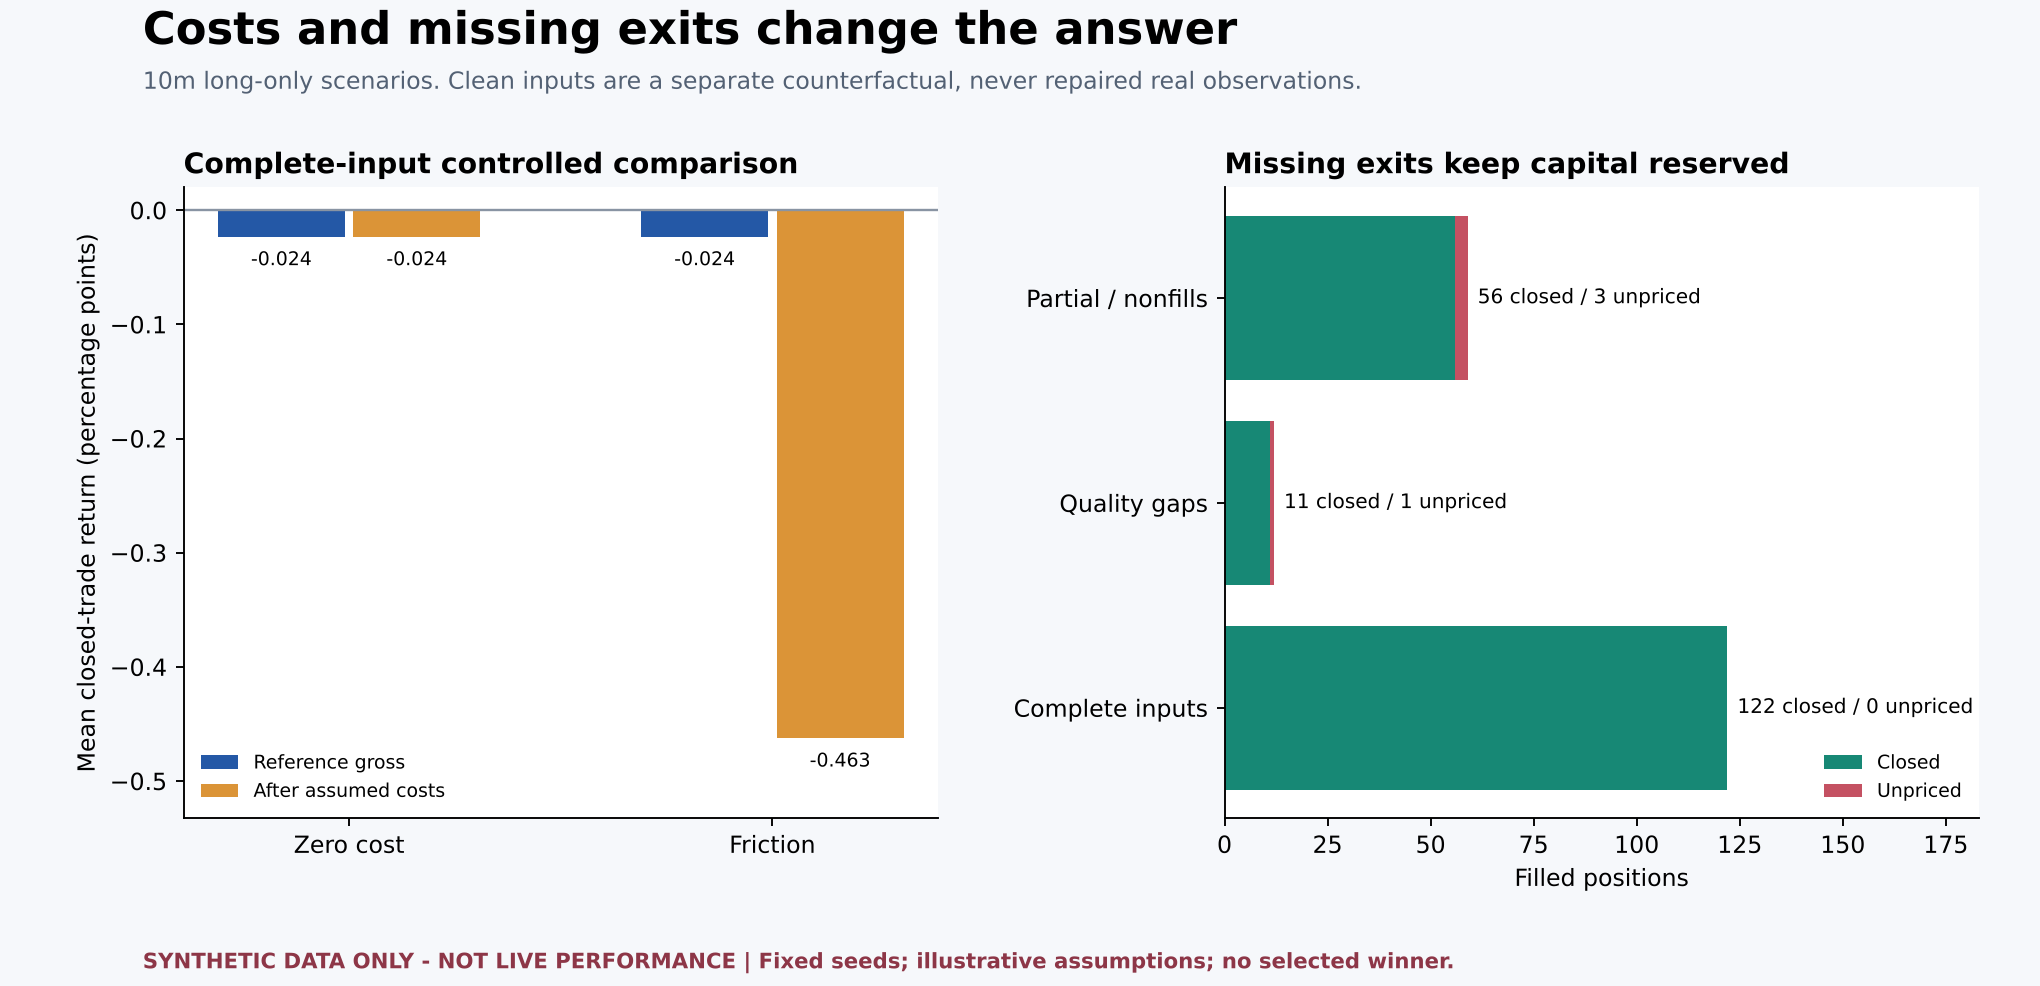
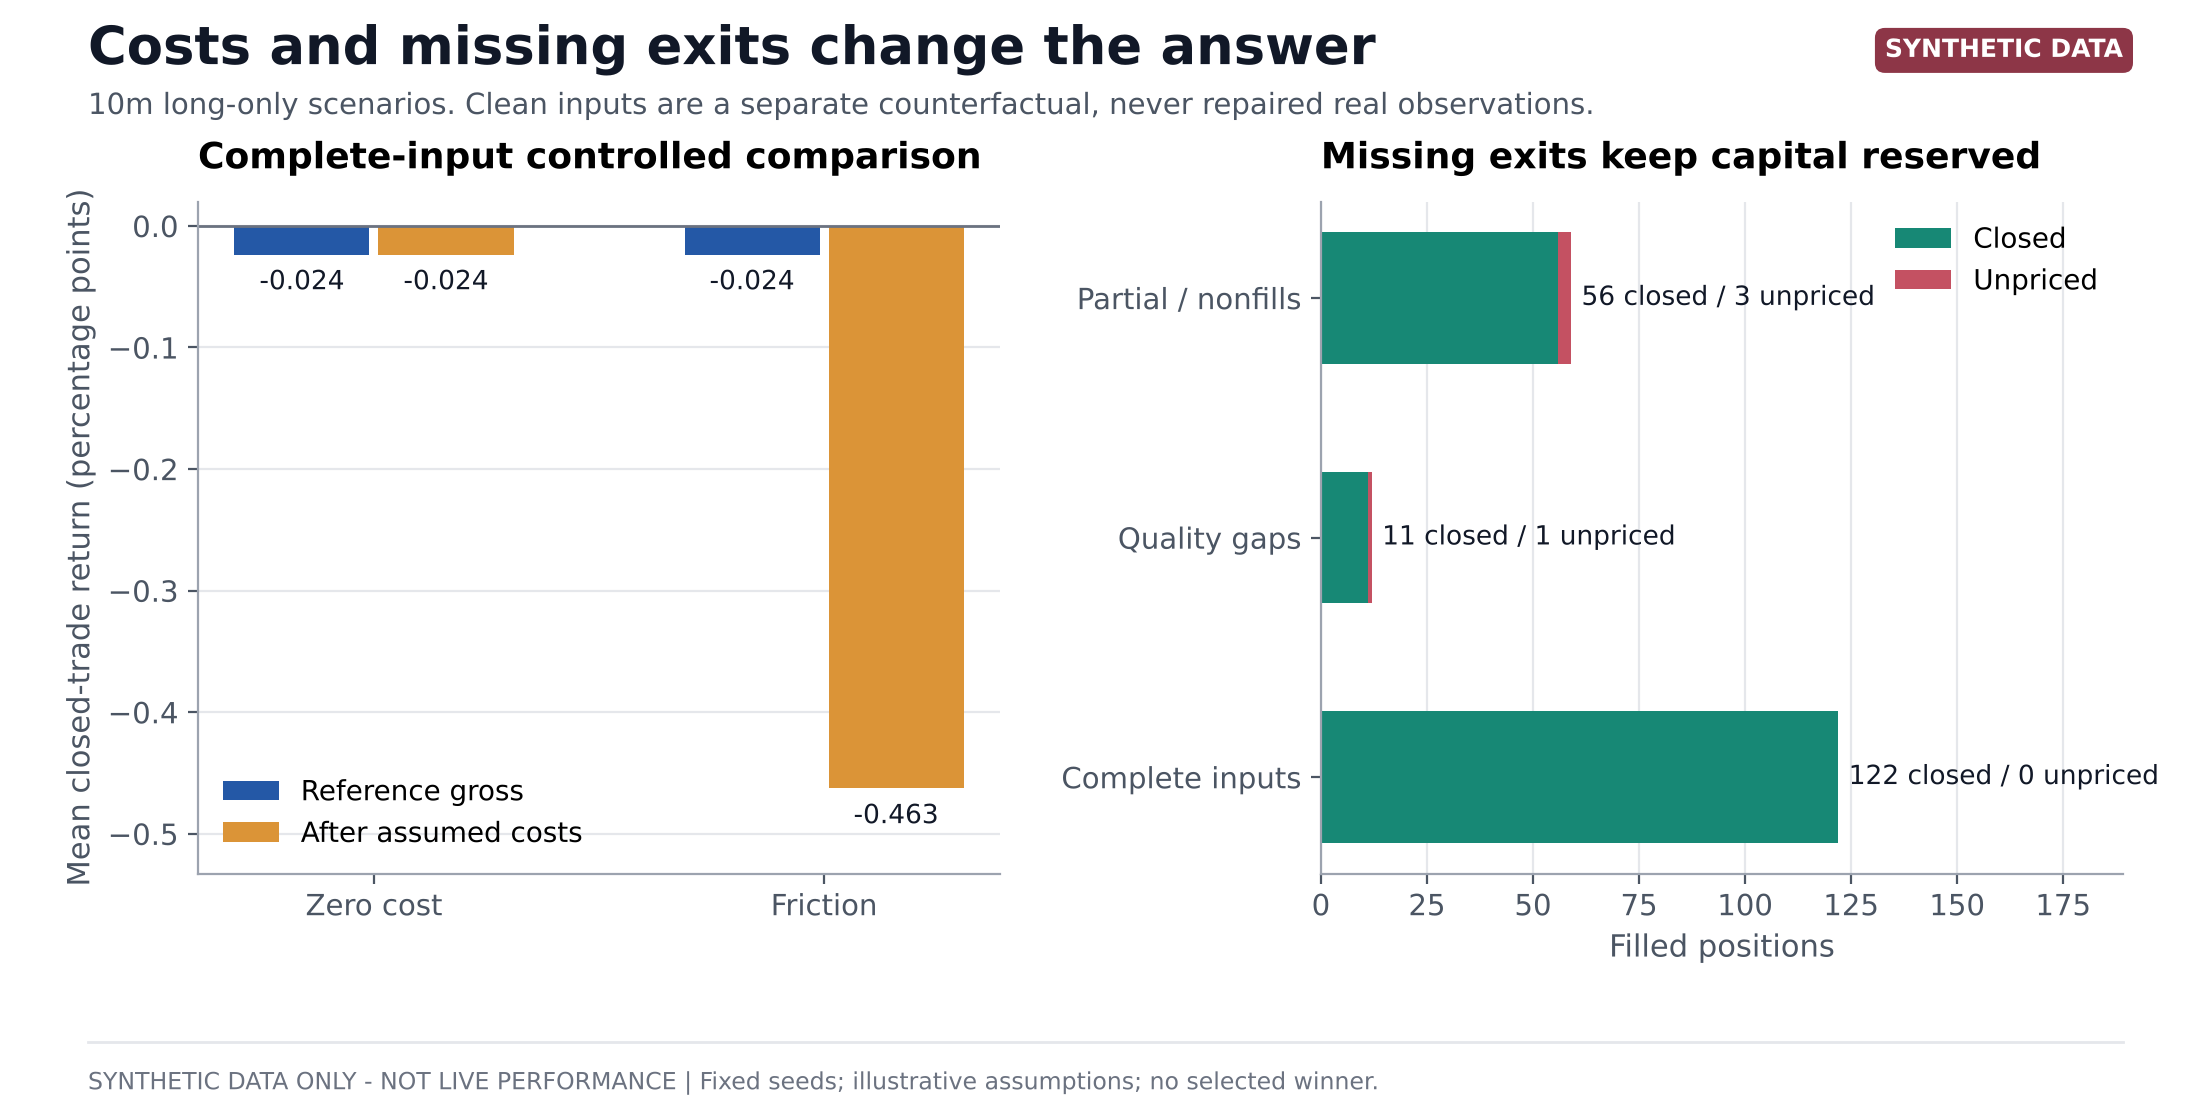
Redesign synthetic demo charts with a consistent professional style
Claude-Session: https://claude.ai/code/session_01HyBLfDs4pgzmruTQyUSwgz

diff --git a/examples/generate_synthetic_demo.py b/examples/generate_synthetic_demo.py
@@ -101,96 +101,145 @@ def graphs(directory, stats, executions, allocation, maker):
     import matplotlib
     matplotlib.use('Agg')
     import matplotlib.pyplot as plt
+    from matplotlib.lines import Line2D
     from matplotlib.ticker import PercentFormatter
-    plt.rcParams.update({'font.family': 'DejaVu Sans', 'font.size': 10, 'axes.spines.top': False,
-                         'axes.spines.right': False, 'axes.titleweight': 'bold', 'figure.facecolor': '#f6f8fb',
-                         'axes.facecolor': '#ffffff', 'savefig.facecolor': '#f6f8fb'})
-    blue, green, orange, red = '#2458a6', '#178875', '#db9437', '#c45162'
-    def save(fig, name, title, subtitle, note=None):
-        fig.suptitle(title, fontsize=19, fontweight='bold', x=.07, ha='left', y=.99)
-        fig.text(.07, .91, subtitle, color='#536174', fontsize=10)
+    ink, muted, grid = '#111827', '#4b5563', '#e5e7eb'
+    plt.rcParams.update({
+        'font.family': 'DejaVu Sans', 'font.size': 11.5, 'axes.titlesize': 13, 'axes.titleweight': 'bold',
+        'axes.titlelocation': 'left', 'axes.titlepad': 12, 'axes.labelsize': 11, 'axes.labelcolor': muted,
+        'xtick.color': muted, 'ytick.color': muted, 'xtick.labelsize': 10.5, 'ytick.labelsize': 10.5,
+        'axes.edgecolor': '#9ca3af', 'axes.spines.top': False, 'axes.spines.right': False,
+        'axes.grid': True, 'axes.grid.axis': 'y', 'grid.color': grid, 'grid.linewidth': .8, 'axes.axisbelow': True,
+        'figure.facecolor': 'white', 'axes.facecolor': 'white', 'savefig.facecolor': 'white',
+        'legend.frameon': False, 'legend.fontsize': 10})
+    blue, green, orange, red, slate = '#2458a6', '#178875', '#db9437', '#c45162', '#99a5b5'
+
+    def save(fig, name, title, subtitle, note=None, top=.8, bottom=.22):
+        fig.text(.04, .955, title, fontsize=19, fontweight='bold', color=ink, ha='left', va='center')
+        fig.text(.04, .905, subtitle, fontsize=10.5, color=muted, ha='left', va='center')
         if note:
-            fig.text(.07, .875, note, color='#8d3647', fontsize=9.5, style='italic')
-        fig.text(.07, .018, LABEL + ' | Fixed seeds; illustrative assumptions; no selected winner.',
-                 color='#8d3647', fontsize=9, fontweight='bold')
-        fig.subplots_adjust(left=.09, right=.97, top=.81, bottom=.17, wspace=.38, hspace=.5)
-        fig.savefig(directory / name, dpi=170, metadata={'Software': 'Synthetic research showcase'})
+            fig.text(.04, .862, note, fontsize=10, style='italic', color='#8d3647', ha='left', va='center')
+        fig.text(.965, .955, 'SYNTHETIC DATA', fontsize=9, fontweight='bold', color='white', ha='right', va='center',
+                 bbox=dict(boxstyle='round,pad=.4', fc='#8d3647', ec='none'))
+        fig.add_artist(Line2D([.04, .965], [.07, .07], color=grid, lw=1))
+        fig.text(.04, .033, LABEL + ' | Fixed seeds; illustrative assumptions; no selected winner.',
+                 fontsize=8.5, color='#6b7280', ha='left', va='center')
+        fig.subplots_adjust(left=.09, right=.965, top=top, bottom=bottom, wspace=.4, hspace=.3)
+        fig.savefig(directory / name, dpi=200, metadata={'Software': 'Synthetic research showcase'})
         plt.close(fig)
-    fig, axes = plt.subplots(1, 2, figsize=(12, 5.8))
+
+    # 1. Quality and uncertainty
+    fig, axes = plt.subplots(1, 2, figsize=(11, 5.6))
     bottom = [0., 0., 0.]
-    for status, color in [('VALID', green), ('MISSING', orange), ('STALE', red), ('LEGACY_UNVERIFIED', '#99a5b5')]:
-        values = [overall(stats, minute)['quality'].get(status, 0) / stats['selected_rows'] for minute in (5,10,30)]
-        axes[0].bar(['5m','10m','30m'], values, bottom=bottom, color=color, label=status, width=.55)
-        bottom = [a+b for a,b in zip(bottom,values)]
-    axes[0].set_title('Observation quality by horizon', loc='left')
-    axes[0].yaxis.set_major_formatter(PercentFormatter(1)); axes[0].set_ylim(0,1.05)
-    axes[0].legend(fontsize=8, loc='upper left', bbox_to_anchor=(0,-.1), ncol=2, frameon=False)
-    for y, period in enumerate(('all','exploration','holdout')):
-        item = overall(stats, partition=period)['stock']; lo,hi = item['mean_ci95']
-        axes[1].errorbar(item['mean'], y, xerr=[[item['mean']-lo],[hi-item['mean']]], fmt='o',
-                         color=blue, capsize=5, markersize=7)
-    axes[1].set_yticks(range(3), ['All dates','Exploration','Fixed date split*'])
-    axes[1].set_ylim(-1,3)
-    axes[1].axvline(0,color='#8994a3',ls='--',lw=1); axes[1].set_xlabel('10m mean return (percentage points)')
-    axes[1].set_title('Date-clustered 95% intervals', loc='left')
-    save(fig,'01_quality_and_uncertainty.png','Measure quality before interpreting returns',
-         '360 fictional candidates / 60 synthetic weekdays. *Fixed demonstration split; not a sealed real holdout.')
-    fig, axes = plt.subplots(1,2,figsize=(12,5.8))
-    known = executions[:2]; labels=['Zero cost','Friction']
-    gross=[r['closed_gross_stats']['mean'] for r in known]; net=[r['closed_net_stats']['mean'] for r in known]
-    for x,(g,n) in enumerate(zip(gross,net)):
-        axes[0].bar(x-.16,g,width=.3,color=blue,label='Reference gross' if x==0 else None)
-        axes[0].bar(x+.16,n,width=.3,color=orange,label='After assumed costs' if x==0 else None)
-    for x,(g,n) in enumerate(zip(gross,net)):
-        axes[0].text(x-.16,g-.012,f'{g:.3f}',ha='center',va='top',fontsize=8)
-        axes[0].text(x+.16,n-.012,f'{n:.3f}',ha='center',va='top',fontsize=8)
-    axes[0].set_ylim(min(net+gross)-.07,.02)
-    axes[0].set_xticks([0,1],labels); axes[0].axhline(0,color='#8994a3',lw=1)
+    for status, color in [('VALID', green), ('MISSING', orange), ('STALE', red), ('LEGACY_UNVERIFIED', slate)]:
+        values = [overall(stats, minute)['quality'].get(status, 0) / stats['selected_rows'] for minute in (5, 10, 30)]
+        axes[0].bar(['5m', '10m', '30m'], values, bottom=bottom, color=color, label=status.replace('_', ' ').title()
+                    if status == 'LEGACY_UNVERIFIED' else status.title(), width=.55)
+        if status == 'VALID':
+            for x, value in enumerate(values):
+                axes[0].text(x, value / 2, f'{value:.1%}', ha='center', va='center', color='white',
+                             fontsize=12, fontweight='bold')
+        bottom = [a + b for a, b in zip(bottom, values)]
+    axes[0].set_title('Observation quality by horizon')
+    axes[0].yaxis.set_major_formatter(PercentFormatter(1, decimals=0)); axes[0].set_ylim(0, 1.02)
+    axes[0].legend(loc='upper center', bbox_to_anchor=(.5, -.1), ncol=4, fontsize=9.5, columnspacing=1.2, handlelength=1.2)
+    for y, period in enumerate(('all', 'exploration', 'holdout')):
+        item = overall(stats, partition=period)['stock']; lo, hi = item['mean_ci95']
+        axes[1].errorbar(item['mean'], y, xerr=[[item['mean'] - lo], [hi - item['mean']]], fmt='o',
+                         color=blue, capsize=5, markersize=8, lw=2)
+        axes[1].annotate(f"{item['mean']:+.3f}   [{lo:+.3f}, {hi:+.3f}]", (item['mean'], y), xytext=(0, 13),
+                         textcoords='offset points', ha='center', fontsize=9.5, color=muted,
+                         bbox=dict(boxstyle='round,pad=.2', fc='white', ec='none'), zorder=5)
+    axes[1].set_yticks(range(3), ['All dates', 'Exploration', 'Fixed date split*'])
+    axes[1].set_ylim(-.7, 2.7)
+    axes[1].grid(axis='x'); axes[1].grid(axis='y', visible=False)
+    axes[1].axvline(0, color='#6b7280', ls='--', lw=1)
+    axes[1].set_xlabel('10m mean return (percentage points)')
+    axes[1].set_title('Date-clustered 95% intervals')
+    save(fig, '01_quality_and_uncertainty.png', 'Measure quality before interpreting returns',
+         '360 fictional candidates / 60 synthetic weekdays. *Fixed demonstration split; not a sealed real holdout.', top=.82)
+
+    # 2. Costs and unknown exits
+    fig, axes = plt.subplots(1, 2, figsize=(11, 5.6))
+    known = executions[:2]; labels = ['Zero cost', 'Friction']
+    gross = [r['closed_gross_stats']['mean'] for r in known]; net = [r['closed_net_stats']['mean'] for r in known]
+    for x, (g, n) in enumerate(zip(gross, net)):
+        axes[0].bar(x - .16, g, width=.3, color=blue, label='Reference gross' if x == 0 else None)
+        axes[0].bar(x + .16, n, width=.3, color=orange, label='After assumed costs' if x == 0 else None)
+        axes[0].text(x - .16, g - .012, f'{g:.3f}', ha='center', va='top', fontsize=9.5, color=ink)
+        axes[0].text(x + .16, n - .012, f'{n:.3f}', ha='center', va='top', fontsize=9.5, color=ink)
+    axes[0].set_ylim(min(net + gross) - .07, .02)
+    axes[0].set_xticks([0, 1], labels); axes[0].axhline(0, color='#6b7280', lw=1)
     axes[0].set_ylabel('Mean closed-trade return (percentage points)')
-    axes[0].legend(fontsize=8,frameon=False); axes[0].set_title('Complete-input controlled comparison',loc='left')
-    status_labels=['Complete inputs','Quality gaps','Partial / nonfills']
-    selected=[executions[1],executions[3],executions[2]]
-    axes[1].barh(status_labels,[r['closed'] for r in selected],color=green,label='Closed')
-    axes[1].barh(status_labels,[r['unresolved'] for r in selected],left=[r['closed'] for r in selected],color=red,label='Unpriced')
-    peak=max(r['closed']+r['unresolved'] for r in selected)
-    axes[1].set_xlim(0,peak*1.5)
-    for y,r in enumerate(selected):
-        axes[1].text(r['closed']+r['unresolved']+peak*.02,y,f"{r['closed']} closed / {r['unresolved']} unpriced",va='center',fontsize=8.5)
-    axes[1].set_xlabel('Filled positions'); axes[1].legend(frameon=False,fontsize=8,loc='lower right')
-    axes[1].set_title('Missing exits keep capital reserved',loc='left')
-    save(fig,'02_costs_and_unknown_exits.png','Costs and missing exits change the answer',
-         '10m long-only scenarios. Clean inputs are a separate counterfactual, never repaired real observations.')
-    fig, axes = plt.subplots(1,2,figsize=(12,5.8))
-    colors=[blue,green,orange]; names=['Fixed cash','Fixed fraction','Inverse volatility']
-    for result,color,label in zip(allocation['results'],colors,names):
-        peaks={}
+    axes[0].legend(loc='lower left'); axes[0].set_title('Complete-input controlled comparison')
+    status_labels = ['Complete inputs', 'Quality gaps', 'Partial / nonfills']
+    selected = [executions[1], executions[3], executions[2]]
+    axes[1].barh(status_labels, [r['closed'] for r in selected], color=green, label='Closed', height=.55)
+    axes[1].barh(status_labels, [r['unresolved'] for r in selected], left=[r['closed'] for r in selected],
+                 color=red, label='Unpriced', height=.55)
+    peak = max(r['closed'] + r['unresolved'] for r in selected)
+    axes[1].set_xlim(0, peak * 1.55)
+    for y, r in enumerate(selected):
+        axes[1].text(r['closed'] + r['unresolved'] + peak * .02, y, f"{r['closed']} closed / {r['unresolved']} unpriced",
+                     va='center', fontsize=9.5, color=ink)
+    axes[1].grid(axis='x'); axes[1].grid(axis='y', visible=False)
+    axes[1].set_xlabel('Filled positions'); axes[1].legend(loc='upper right')
+    axes[1].set_title('Missing exits keep capital reserved')
+    save(fig, '02_costs_and_unknown_exits.png', 'Costs and missing exits change the answer',
+         '10m long-only scenarios. Clean inputs are a separate counterfactual, never repaired real observations.', top=.82)
+
+    # 3. Allocation and stress
+    fig, axes = plt.subplots(1, 2, figsize=(11, 5.6))
+    colors = [blue, green, orange]; names = ['Fixed cash', 'Fixed fraction', 'Inverse volatility']
+    for result, color, label in zip(allocation['results'], colors, names):
+        peaks = {}
         for item in result['allocation_analysis']['snapshots']:
-            day=item['time'][:10]; peaks[day]=max(peaks.get(day,0),item['gross_fraction']*100)
-        axes[0].plot(range(1,len(peaks)+1),list(peaks.values()),color=color,lw=1.8,marker='o',markersize=3.5,label=label)
-    axes[0].axhline(80,color=red,ls='--',lw=1,label='Entry gross cap')
-    axes[0].set_ylim(0,100); axes[0].set_xlabel('Synthetic trading day (fixed split onward)')
-    axes[0].set_ylabel('Daily peak cost-basis gross exposure (%)'); axes[0].legend(fontsize=8,frameon=False,loc='lower right')
-    axes[0].set_title('Daily peak exposure; no market-value claims',loc='left')
-    stress_names=list(allocation['results'][0]['allocation_analysis']['stress_worst'])
-    for offset,(stress,color) in enumerate(zip(stress_names,[blue,red])):
-        values=[r['allocation_analysis']['stress_worst'][stress]['loss_pct'] for r in allocation['results']]
-        axes[1].bar([i+(offset-.5)*.34 for i in range(3)],values,width=.32,color=color,label=stress)
-    axes[1].set_xticks(range(3),['Fixed\ncash','Fixed\nfraction','Inverse\nvolatility'])
-    axes[1].set_ylabel('Worst assumed snapshot loss (%)'); axes[1].legend(fontsize=7,frameon=False)
-    axes[1].set_title('Simultaneous downside assumptions',loc='left')
-    save(fig,'03_allocation_and_stress.png','Allocation, exposure and simultaneous stress',
-         'Last 30 synthetic weekdays; earlier outcomes supply past-only volatility warmup. Not VaR or optimal sizing.')
-    fig, axes = plt.subplots(2,1,figsize=(12,6.7),sharex=True)
-    for result,color in zip(maker['results'],[blue,green]):
-        log=result['ledger']; name=result['policy']['name']
-        axes[0].plot([p['step'] for p in log],[p['inventory'] for p in log],color=color,lw=1.3,label=name)
-        axes[1].plot([0]+[p['step'] for p in log],[0]+[p['equity']-result['policy']['initial_cash'] for p in log],color=color,lw=1.4,label=name)
-    axes[0].axhline(0,color='#8994a3',lw=.7);axes[1].axhline(0,color='#8994a3',lw=.7)
-    axes[0].set_ylabel('Signed inventory (shares)');axes[1].set_ylabel('Marked P&L (arbitrary units)')
-    axes[1].set_xlabel('Synthetic event step');axes[0].legend(frameon=False,fontsize=9)
-    save(fig,'04_market_making_inventory.png','Quoting creates inventory and price risk',
+            day = item['time'][:10]; peaks[day] = max(peaks.get(day, 0), item['gross_fraction'] * 100)
+        axes[0].plot(range(1, len(peaks) + 1), list(peaks.values()), color=color, lw=2.2, marker='o', markersize=3.5, label=label)
+    axes[0].axhline(80, color=red, ls='--', lw=1.2, label='Entry gross cap (80%)')
+    axes[0].set_ylim(0, 100); axes[0].set_xlabel('Synthetic trading day (fixed split onward)')
+    axes[0].set_ylabel('Daily peak gross exposure (%)'); axes[0].legend(loc='lower right', fontsize=9.5)
+    axes[0].set_title('Daily peak cost-basis exposure')
+    stress_names = list(allocation['results'][0]['allocation_analysis']['stress_worst'])
+    top_value = 0
+    for offset, (stress, color) in enumerate(zip(stress_names, [blue, red])):
+        values = [r['allocation_analysis']['stress_worst'][stress]['loss_pct'] for r in allocation['results']]
+        positions = [i + (offset - .5) * .34 for i in range(3)]
+        axes[1].bar(positions, values, width=.32, color=color, label=stress)
+        for x, value in zip(positions, values):
+            axes[1].text(x, value + .15, f'{value:.1f}%', ha='center', va='bottom', fontsize=9.5, color=ink)
+        top_value = max(top_value, *values)
+    axes[1].set_ylim(0, top_value * 1.25)
+    axes[1].set_xticks(range(3), ['Fixed\ncash', 'Fixed\nfraction', 'Inverse\nvolatility'])
+    axes[1].set_ylabel('Worst assumed snapshot loss (%)'); axes[1].legend(loc='upper left', fontsize=9.5)
+    axes[1].set_title('Simultaneous downside assumptions')
+    save(fig, '03_allocation_and_stress.png', 'Allocation, exposure and simultaneous stress',
+         'Last 30 synthetic weekdays; earlier outcomes supply past-only volatility warmup. Not VaR or optimal sizing.', top=.82)
+
+    # 4. Market making
+    fig, axes = plt.subplots(2, 1, figsize=(11, 6.6), sharex=True)
+    finals = [r['ledger'][-1]['equity'] - r['policy']['initial_cash'] for r in maker['results']]
+    for index, (result, color) in enumerate(zip(maker['results'], [blue, green])):
+        log = result['ledger']; name = result['policy']['name']
+        steps = [p['step'] for p in log]
+        pnl = [p['equity'] - result['policy']['initial_cash'] for p in log]
+        axes[0].plot(steps, [p['inventory'] for p in log], color=color, lw=1.6, label=name)
+        axes[1].plot([0] + steps, [0] + pnl, color=color, lw=1.8, label=name)
+        axes[0].annotate(f"{log[-1]['inventory']:+d}", (steps[-1], log[-1]['inventory']), xytext=(6, 0),
+                         textcoords='offset points', va='center', fontsize=9.5, color=color, fontweight='bold')
+        lift = 9 if pnl[-1] >= min(finals) and pnl[-1] == max(finals) else -9
+        axes[1].annotate(f'{pnl[-1]:+.0f}', (steps[-1], pnl[-1]), xytext=(6, lift),
+                         textcoords='offset points', va='center', fontsize=9.5, color=color, fontweight='bold')
+    for axis in axes:
+        axis.axhline(0, color='#6b7280', lw=.9)
+    axes[0].set_xlim(-5, 535)
+    axes[0].set_ylabel('Signed inventory (shares)'); axes[1].set_ylabel('Marked P&L (arbitrary units)')
+    axes[0].set_title('Residual inventory', fontsize=12.5); axes[1].set_title('Marked P&L', fontsize=12.5)
+    axes[1].set_xlabel('Synthetic event step'); axes[0].legend(loc='upper left', ncol=2)
+    save(fig, '04_market_making_inventory.png', 'Quoting creates inventory and price risk',
          'Both policies replay the same 500-event tape (seed 11). Residual inventory is marked, not liquidated.',
-         note='Model assumption, not evidence: crossing orders always fill and no competing makers exist, so positive P&L reflects the toy rules.')
+         note='Model assumption, not evidence: crossing orders always fill and no competing makers exist, so positive P&L reflects the toy rules.',
+         top=.78, bottom=.175)
 
 
 def build(output, plots=True):
